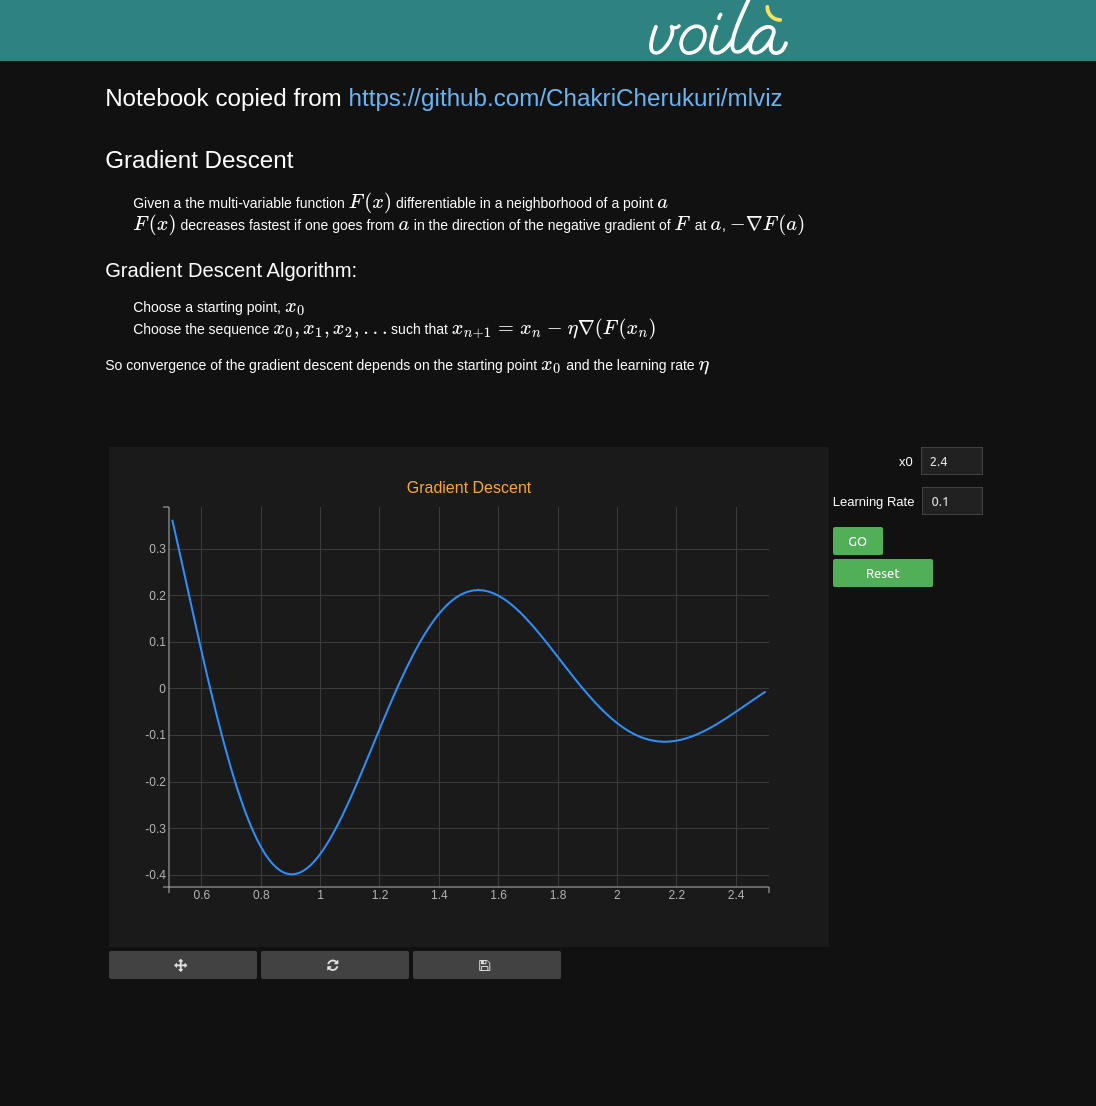
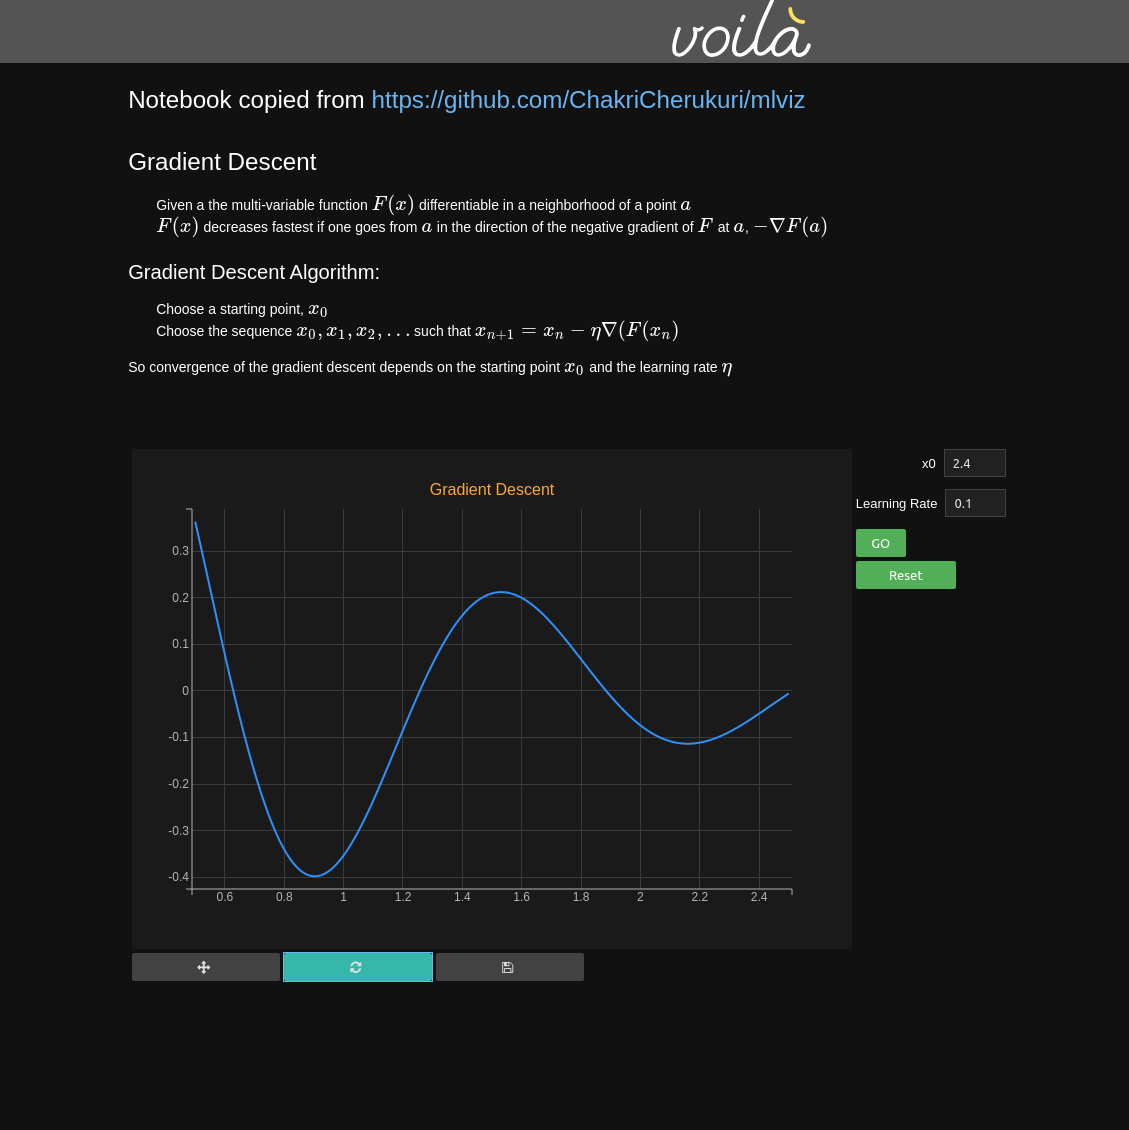
Use a grey color for the top bar when using the dark theme

diff --git a/README.md b/README.md
@@ -22,12 +22,13 @@ Or for the dark theme:
 voila my_notebook.ipynb --template=material --theme=dark
 ```
 
-## Example
+### Light theme
 
 ![screenshot](./material_tree.png)
 ![screenshot](./material_spinner.png)
 ![screenshot](./material_light.png)
 
-Dark theme support
+### Dark theme
 
+![screenshot](./material_dark_spinner.png)
 ![screenshot](./material_dark.png)
